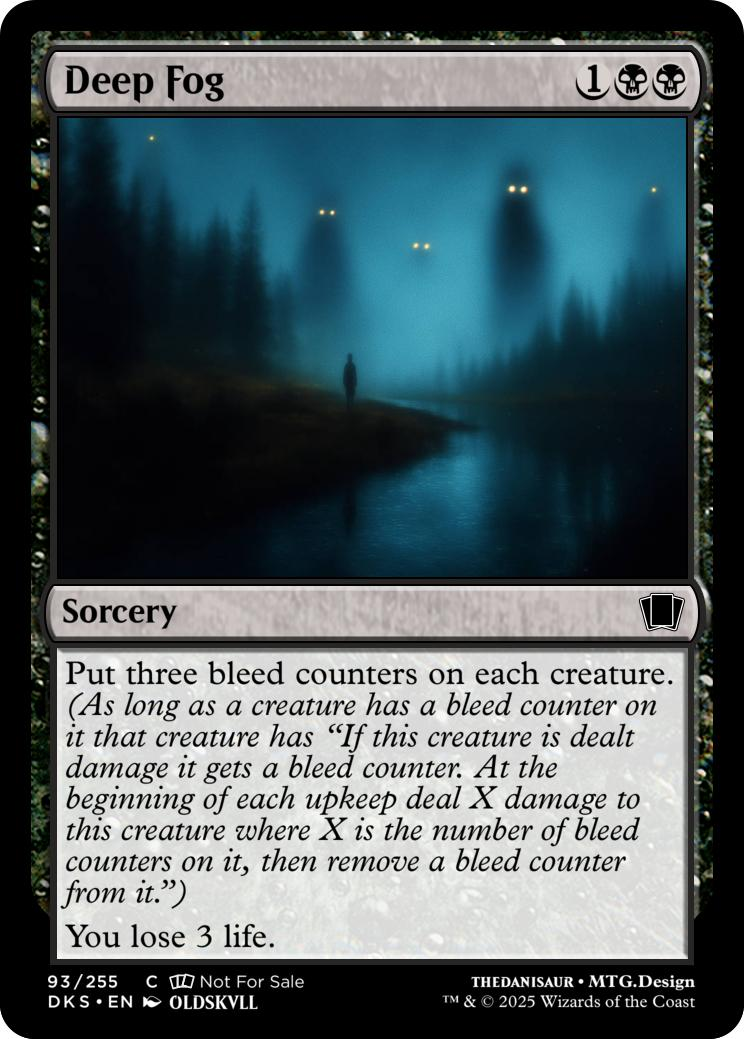
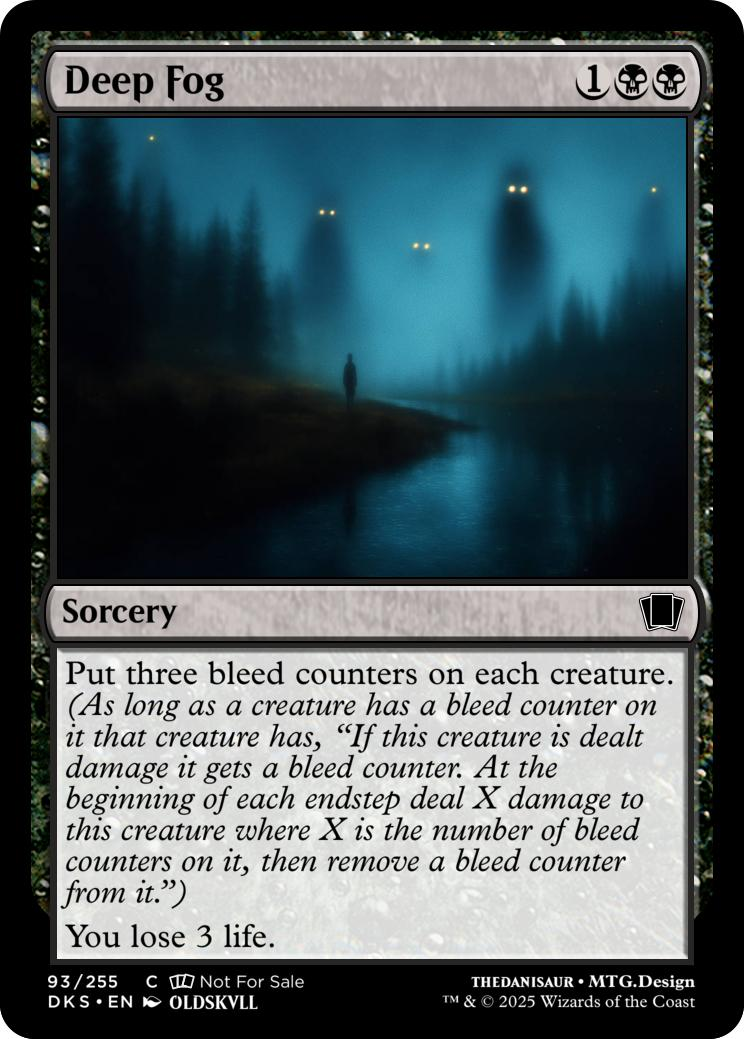
Update template for bleed, now triggers on endstep. Nimble Shadow rework.

Changed region(s): [[0.4019, 0.6776, 0.8656, 0.8008]]

diff --git a/README.md b/README.md
@@ -46,11 +46,11 @@ Bleed (similar in function to 702.90. Infect)
 
 - a) Bleed is a static ability.
 - b) Damage dealt to a player by a source with bleed doesn’t cause that player to lose life. Rather, it causes that source’s controller to give the player that many bleed counters. See rule 120.3b to infer how to deal with this change.
-    - 1) As long as a player has atleast one bleed counter that player has an emblem with "If you would be dealt damage prevent that damage and you recieve that many bleed counters instead. At the beginning of each upkeep this emblem deals damage to you equal to the number of bleed counters you have, then remove a bleed counter."
-    - 2) If a player has no bleed counters their bleed emblem ceases to exist. They will not deal damage to them until they receive another bleed counter and get another bleed emblem.
+    - 1) As long as a player has atleast one bleed counter that player has an emblem with "If you would be dealt damage prevent that damage and you recieve that many bleed counters instead. At the beginning of each endstep this emblem deals damage to you equal to the number of bleed counters you have, then remove a bleed counter."
+    - 2) If a player has no bleed counters their bleed emblem ceases to exist.
     - 3) A player may only have one bleed emblem at a time.
 - c) Damage dealt to a creature by a source with bleed isn’t marked on that creature. Rather, it causes that source’s controller to put that many bleed counters on that creature. See rule 120.3d to infer how to deal with this change.
-    - 1) As long as a creature has a bleed counter on it that creature has, "If this creature is dealt damage it gets a bleed counter. At the beginning of each upkeep deal X damage to this creature where X is the number of bleed counters on it, then remove a bleed counter from it."
+    - 1) As long as a creature has a bleed counter on it that creature has, "If this creature is dealt damage it gets a bleed counter. At the beginning of each endstep deal X damage to this creature where X is the number of bleed counters on it, then remove a bleed counter from it."
 - d) If an object changes zones before an effect causes it to deal damage, its last known information is used to determine whether it had bleed.
 - e) The bleed rules function no matter what zone an object with bleed deals damage from.
 - f) Multiple instances of bleed on the same object are redundant.
@@ -83,7 +83,7 @@ Hollow
 Color Distribution
 
 ```
-240 total
+255 total
 
 10 colorless cards
 35 white cards
@@ -111,6 +111,7 @@ Booster distribution
 - 3 uncommons
 - 1 rare
 - 1 in 8 rare is replaced with mythic
+- 1 land slot
 ```
 
 ## Full Set
